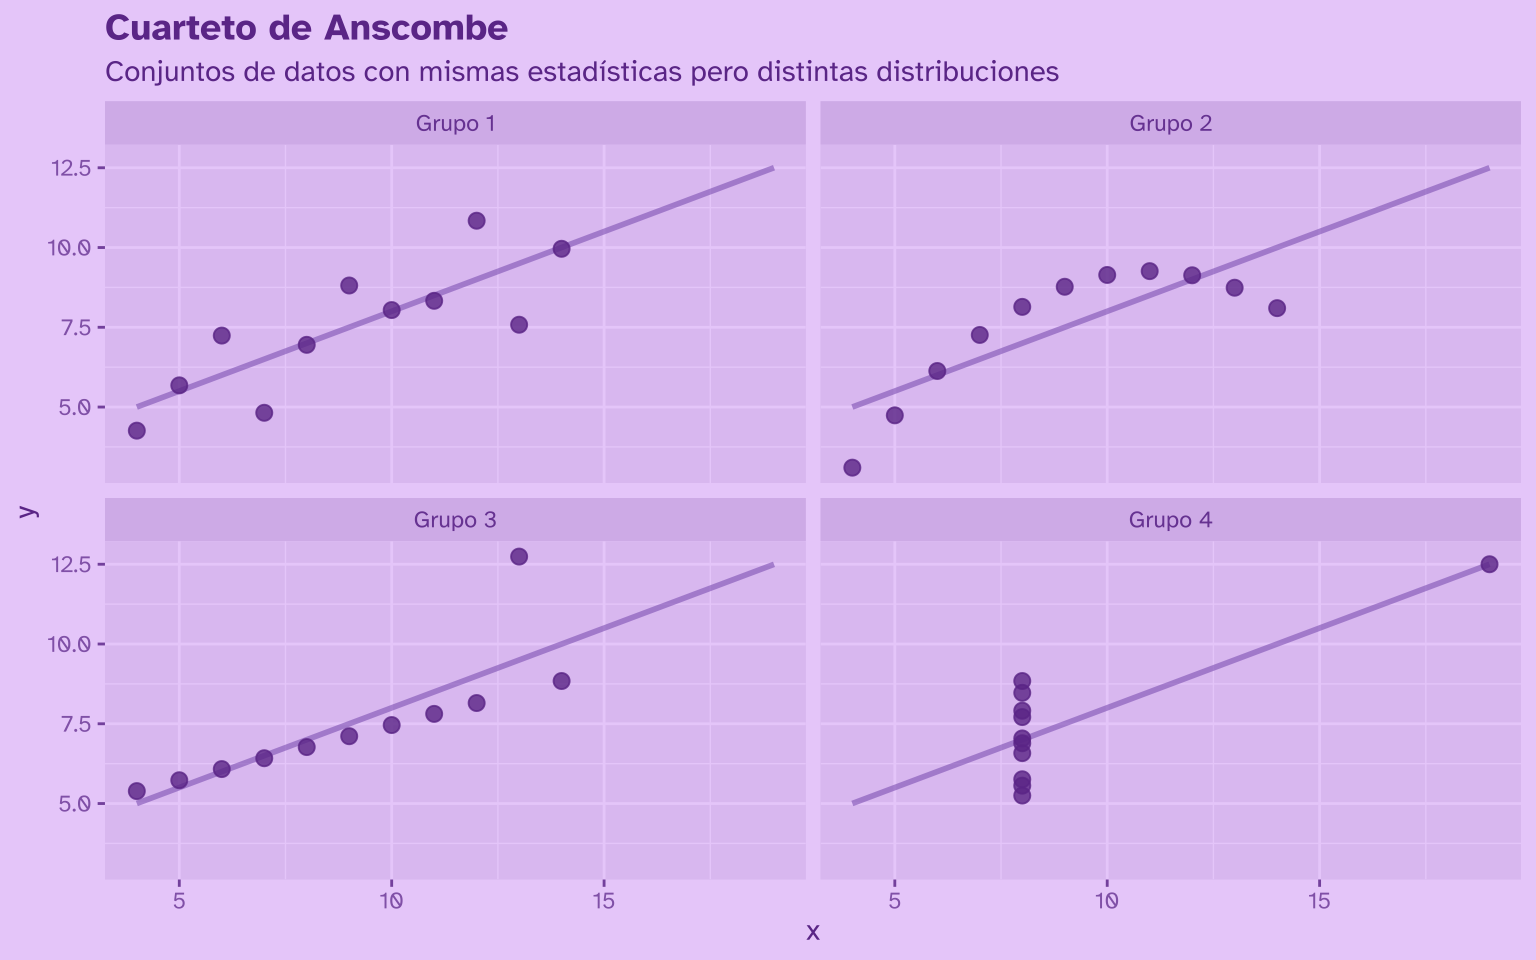
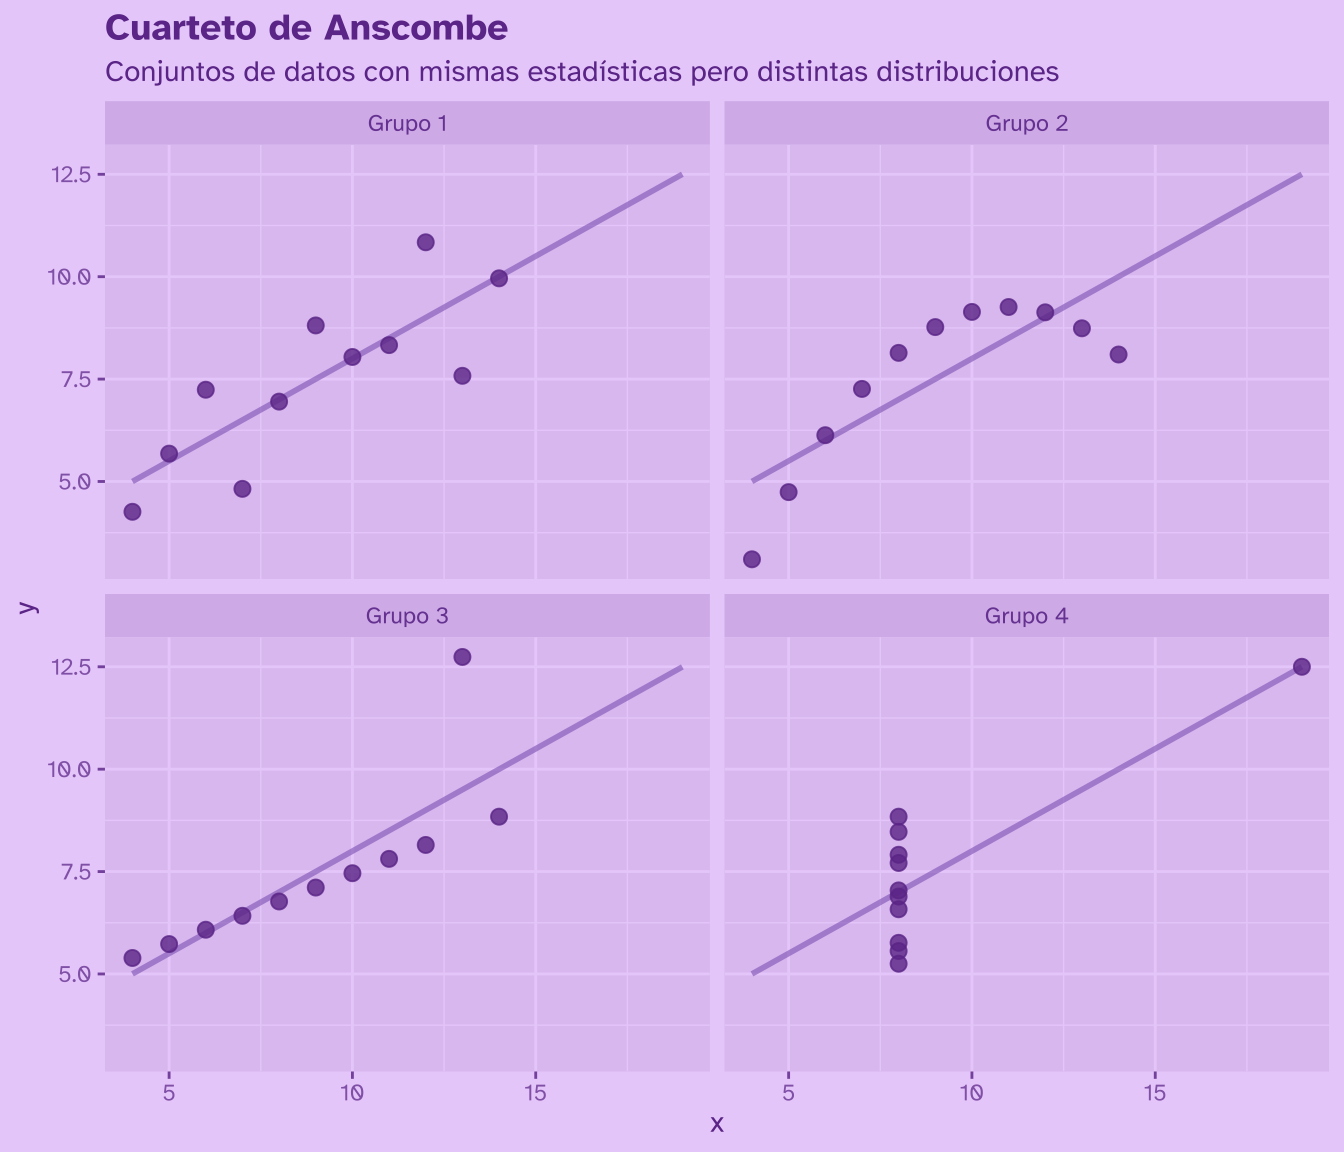
ajustes post anscombe

diff --git a/content/blog/2026-01-27/index.md b/content/blog/2026-01-27/index.md
@@ -22,7 +22,7 @@ excerpt: >-
 ---
 
 
-Uno de los primeros pasos al trabajar con datos es explorarlos, y si bien existen [herramientas estadísticas para resumir datos y obtener medidas que los describan](../../../blog/r_introduccion/dplyr_summarize/), debemos recordar que **visualizar los datos es igual de importante que obtener sus estadísticas descriptivas** 🤯
+Uno de los primeros pasos al trabajar con datos es explorarlos, y si bien existen [herramientas estadísticas para resumir datos y obtener medidas que los describan](../../../blog/estadisticos_descriptivos/), debemos recordar que **visualizar los datos es igual de importante que obtener sus estadísticas descriptivas** 🤯
 
 Veamos un ejemplo clásico de ésto: el [cuarteto de Anscombe](https://es.wikipedia.org/wiki/Cuarteto_de_Anscombe). Este conjunto de datos, creado por Francis John Anscombe en 1973, está compuesto por cuatro grupos distintos, con **las mismas estadísticas descriptivas** (media, varianza, correlación y regresión lineal), pero que **al visualizarlos revelan distribuciones muy diferentes**!
 
@@ -89,7 +89,11 @@ Usamos `pivot_longer()` para *pivotar* los datos y hacer que todas las cifras es
 
 ## Calcular estadísticos descriptivos
 
-Con los datos ordenados, tenemos todas las cifras en una sola columna. Ahora podemos calcular sus **estadísticos descriptivos** con `summarize()`. Esto nos permite calcular, por ejemplo, un promedio de todas las observaciones. Pero como los datos vienen en grupos, agrupamos primero con `group_by()`:
+Con los datos ordenados, tenemos todas las cifras en una sola columna. Ahora podemos calcular sus **estadísticos descriptivos**.
+
+{{< info "Para aprender a calcular **estadísticos descriptivos**, [revisa este post](/blog/estadisticos_descriptivos/)." >}}
+
+Para [calcular resúmenes de datos](../../../blog/r_introduccion/dplyr_summarize/) usamos la función `summarize()`. Ella nos permite calcular, por ejemplo, un promedio de todas las observaciones. Pero como los datos vienen en grupos, agrupamos primero con `group_by()`:
 
 ``` r
 estadisticos <- anscombe_largo |> 
@@ -108,7 +112,7 @@ estadisticos <- anscombe_largo |>
 
 Al calcular algunos estadísticos descriptivos (**promedio**, **mediana** y **varianza**) confirmamos que los cuatro grupos del cuarteto tienen cifras casi idénticas!
 
-{{< info "Para aprender a calcular **estadísticos descriptivos**, revisa este tutorial sobre [resúmenes de datos con `{dplyr}`](/blog/r_introduccion/dplyr_summarize/)." >}}
+{{< info "Si quieres aprender a usar `summarize()`, revisa este tutorial sobre [resúmenes de datos con `{dplyr}`](/blog/r_introduccion/dplyr_summarize/)." >}}
 
 ## Visualizar los datos
 
@@ -175,6 +179,7 @@ theme_set(
 ```
 
 {{< /detalles >}}
+{{< info "Para aprender a crear gráficos con `{ggplot2}`, revisa este tutorial introductorio a la [visualización de datos](/blog/r_introduccion/tutorial_visualizacion_ggplot/)." >}}
 
 Al graficar los datos de cada grupo, podemos ver que las distribuciones son muy diferentes entre sí, a pesar de tener estadísticas descriptivas similares.
 
@@ -199,27 +204,9 @@ anscombe_ancho |>
   theme(plot.title = element_text(size = 14, face = "bold"))
 ```
 
-    `geom_smooth()` using formula = 'y ~ x'
+<img src="index.markdown_strict_files/figure-markdown_strict/unnamed-chunk-8-1.png" width="672" />
 
-<img src="index.markdown_strict_files/figure-markdown_strict/unnamed-chunk-8-1.png" width="768" />
-
-{{< info "Para aprender a crear gráficos con `{ggplot2}`, revisa este tutorial sobre [visualización de datos con `{ggplot2}`](/blog/r_introduccion/tutorial_visualizacion_ggplot/)." >}}
-
-Si nos hubiéramos quedado con las estadísticas descriptivas, habríamos pasado por alto las diferencias entre los grupos! *Moraleja:* siempre hacer gráficos exploratorios para comprender con qué estamos trabajando.
+Si nos hubiéramos quedado con las estadísticas descriptivas, habríamos pasado por alto las diferencias entre los grupos! *Moraleja:* siempre hacer gráficos exploratorios para comprender con qué estamos trabajando 🤓☝🏼
 
 {{< cafecito >}}
 {{< cursos >}}
-
-``` r
-anscombe_ancho |>
-  filter(grupo == 2) |> 
-  ggplot() +
-  aes(x, y) +
-  # línea de regresión
-  geom_smooth(method = "lm", se = FALSE, 
-              fullrange = T, 
-              color = alpha("#9069C0", 0.6)) +
-  # puntitos   
-  geom_point(size = 2.5, 
-             alpha = 0.8)
-```
